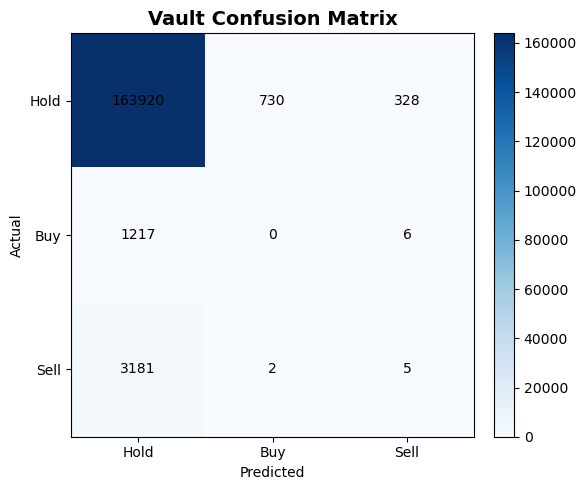
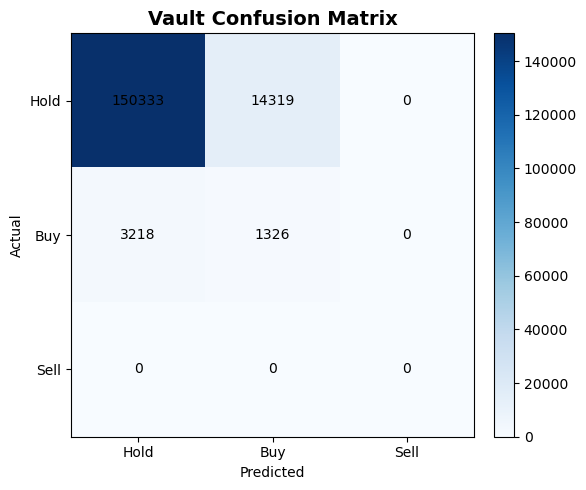
Enhance data handling and evaluation metrics in training process
- Added masking for test and vault datasets to ensure NaN values are excluded during evaluation.
- Updated evaluation metrics to include signal precision, recall, and F1 score in the logging output.
- Improved the structure of the training report to include wall time for better performance tracking.
- Refactored the plotting function to utilize the updated vault evaluation DataFrame.

diff --git a/main.py b/main.py
@@ -252,6 +252,7 @@ def train_and_evaluate(
             mask = ~y_test.isna()
             X_test = X_test.loc[mask]
             y_test = y_test.loc[mask]
+            test_df = test_df.loc[mask]
 
         if balance_mode == "downsample":
             X_train, y_train = util.downsample_majority(
@@ -341,16 +342,18 @@ def train_and_evaluate(
 
         # Predict on vault
         X_vault, y_vault = util.get_X_y(vault_df, target_name=target_name)
+        vault_eval_df = vault_df
         if y_vault.isna().any():
             mask = ~y_vault.isna()
             X_vault = X_vault.loc[mask]
             y_vault = y_vault.loc[mask]
+            vault_eval_df = vault_df.loc[mask]
         y_vault_pred = final_model.query(X_vault)
 
         vault_eval = evaluator.evaluate_fold(
             y_true=y_vault.values,
             y_pred=y_vault_pred,
-            df_test=vault_df,
+            df_test=vault_eval_df,
         )
 
         print(f"\n  Vault Results:")
@@ -421,8 +424,10 @@ def train_and_evaluate(
     else:
         signals_path = os.path.join(output_dir, "vault_signals.png")
         visualizer.plot_signals(
-            vault_df, y_vault_pred, signals_path,
-            title="Vault Set: Model Signals"
+            vault_eval_df,
+            y_vault_pred,
+            signals_path,
+            title="Vault Set: Model Signals",
         )
     
     # Actual moves distribution
@@ -471,6 +476,7 @@ def train_and_evaluate(
         'vault_result': vault_eval,
         'report': report,
         'final_model': final_model,
+        'wall_time_seconds': elapsed_seconds,
     }
 
 
@@ -493,21 +499,45 @@ def log_train_run(
     with open(report_path, "a", encoding="utf-8") as f:
         f.write(line)
 
+    def _metric_scalar(value):
+        if isinstance(value, dict):
+            vals = [v for v in value.values() if v is not None]
+            return float(np.mean(vals)) if vals else None
+        return value
+
+    def _signal_metric(value):
+        if isinstance(value, dict):
+            return value.get("Buy")
+        return None
+
     batch_path = os.path.join("reports", "batch_results.csv")
     write_header = not os.path.exists(batch_path)
+    wall_time_seconds = results.get("wall_time_seconds")
     with open(batch_path, "a", encoding="utf-8") as f:
         if write_header:
             f.write(
                 "timestamp,target,method,balance_mode,data_path,"
-                "vault_accuracy,vault_precision,vault_recall,vault_f1,n_samples\n"
+                "vault_accuracy,vault_precision,vault_recall,vault_f1,"
+                "signal_precision,signal_recall,signal_f1,"
+                "n_samples,wall_time_seconds\n"
             )
+        vault_precision = _metric_scalar(vault_result.get("precision"))
+        vault_recall = _metric_scalar(vault_result.get("recall"))
+        vault_f1 = _metric_scalar(vault_result.get("f1"))
+        signal_precision = _signal_metric(vault_result.get("precision"))
+        signal_recall = _signal_metric(vault_result.get("recall"))
+        signal_f1 = _signal_metric(vault_result.get("f1"))
         f.write(
             f"{timestamp},{target_name},{method},{balance_mode},{data_path},"
             f"{vault_result.get('accuracy')},"
-            f"{vault_result.get('precision')},"
-            f"{vault_result.get('recall')},"
-            f"{vault_result.get('f1')},"
-            f"{vault_result.get('n_samples')}\n"
+            f"{vault_precision},"
+            f"{vault_recall},"
+            f"{vault_f1},"
+            f"{signal_precision},"
+            f"{signal_recall},"
+            f"{signal_f1},"
+            f"{vault_result.get('n_samples')},"
+            f"{wall_time_seconds}\n"
         )
 
 
@@ -637,7 +667,10 @@ if __name__ == '__main__':
         if config_path:
             with open(config_path, "r", encoding="utf-8") as f:
                 config_data = json.load(f)
-            experiments = config_data.get("experiments", config_data)
+            if isinstance(config_data, dict):
+                experiments = config_data.get("experiments", config_data)
+            else:
+                experiments = config_data
             for exp in experiments:
                 exp_target = exp.get("target")
                 exp_targets = exp.get("targets")

diff --git a/src/walk_forward.py b/src/walk_forward.py
@@ -334,6 +334,7 @@ def walk_forward_validate(
             mask = ~y_test.isna()
             X_test = X_test.loc[mask]
             y_test = y_test.loc[mask]
+            df_test = df_test.loc[mask]
 
         if balance_mode == "downsample":
             X_train, y_train = util.downsample_majority(
